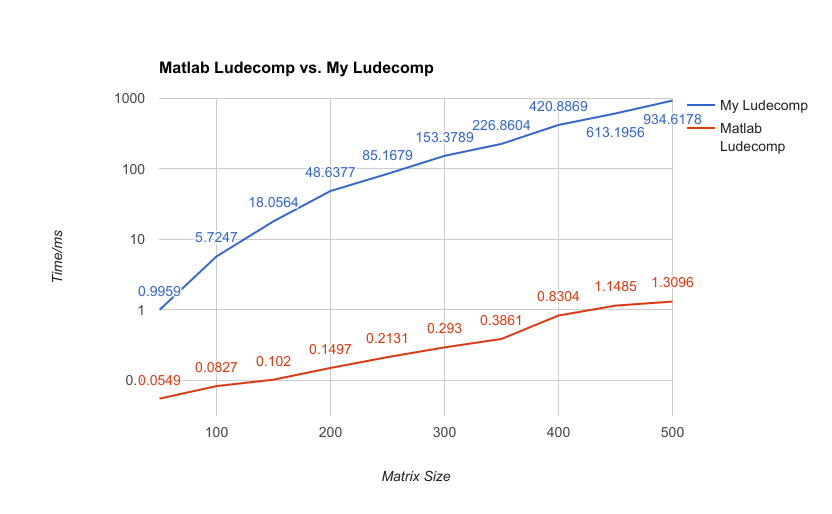
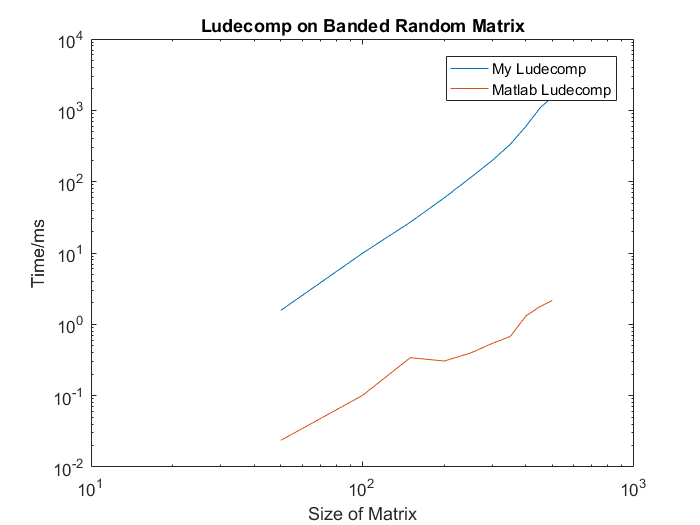
502 timing and img

diff --git a/ENM_hw2/img/plot.m b/ENM_hw2/img/plot.m
@@ -1,0 +1,30 @@
+n = 50 : 50 : 500;
+my_hilbert = time_hilbert(n);
+matlab_hilbert = time_hilbert(n);
+loglog(n, my_hilbert);
+hold on;
+loglog(n, matlab_hilbert);
+legend('My Ludecomp', 'Matlab Ludecomp');
+title('Ludecomp on Hilbert Matrix');
+xlabel('Size of Matrix');
+ylabel('Time/ms');
+
+my_dense_random = time_dense_random(n);
+matlab_dense_random = time_dense_random(n);
+loglog(n, my_dense_random);
+hold on;
+loglog(n, matlab_dense_random);
+legend('My Ludecomp', 'Matlab Ludecomp');
+title('Ludecomp on Dense Random Matrix');
+xlabel('Size of Matrix');
+ylabel('Time/ms');
+
+my_banded_random = time_banded_random(n);
+matlab_banded_random = time_banded_random(n);
+loglog(n, my_banded_random);
+hold on;
+loglog(n, matlab_banded_random);
+legend('My Ludecomp', 'Matlab Ludecomp');
+title('Ludecomp on Banded Random Matrix');
+xlabel('Size of Matrix');
+ylabel('Time/ms');

diff --git a/ENM_hw2/time_banded_random.m b/ENM_hw2/time_banded_random.m
@@ -12,8 +12,8 @@ for i = 1 : N
     for j = 1 : NUM_TRIAL
         tic;
         % Uncomment one to time
-        % res = Ludecomp(A);
-         res = lu(A);
+        res = Ludecomp(A);
+        % res = lu(A);
         duration = toc;
         time_cost(i) = time_cost(i) + duration;
     end

diff --git a/ENM_hw2/time_hilbert.m b/ENM_hw2/time_hilbert.m
@@ -11,8 +11,8 @@ for i = 1 : N
     for j = 1 : NUM_TRIAL
         tic;
         % Uncomment one to time
-         res = Ludecomp(A);
-        % res = lu(A);
+        % res = Ludecomp(A);
+        res = lu(A);
         duration = toc;
         time_cost(i) = time_cost(i) + duration;
     end

diff --git a/ENM_hw2/time_dense_random.m b/ENM_hw2/time_dense_random.m
@@ -13,7 +13,7 @@ for i = 1 : N
         tic;
         % Uncomment one to time
         % res = Ludecomp(A);
-        % res = lu(A);
+        res = lu(A);
         duration = toc;
         time_cost(i) = time_cost(i) + duration;
     end
